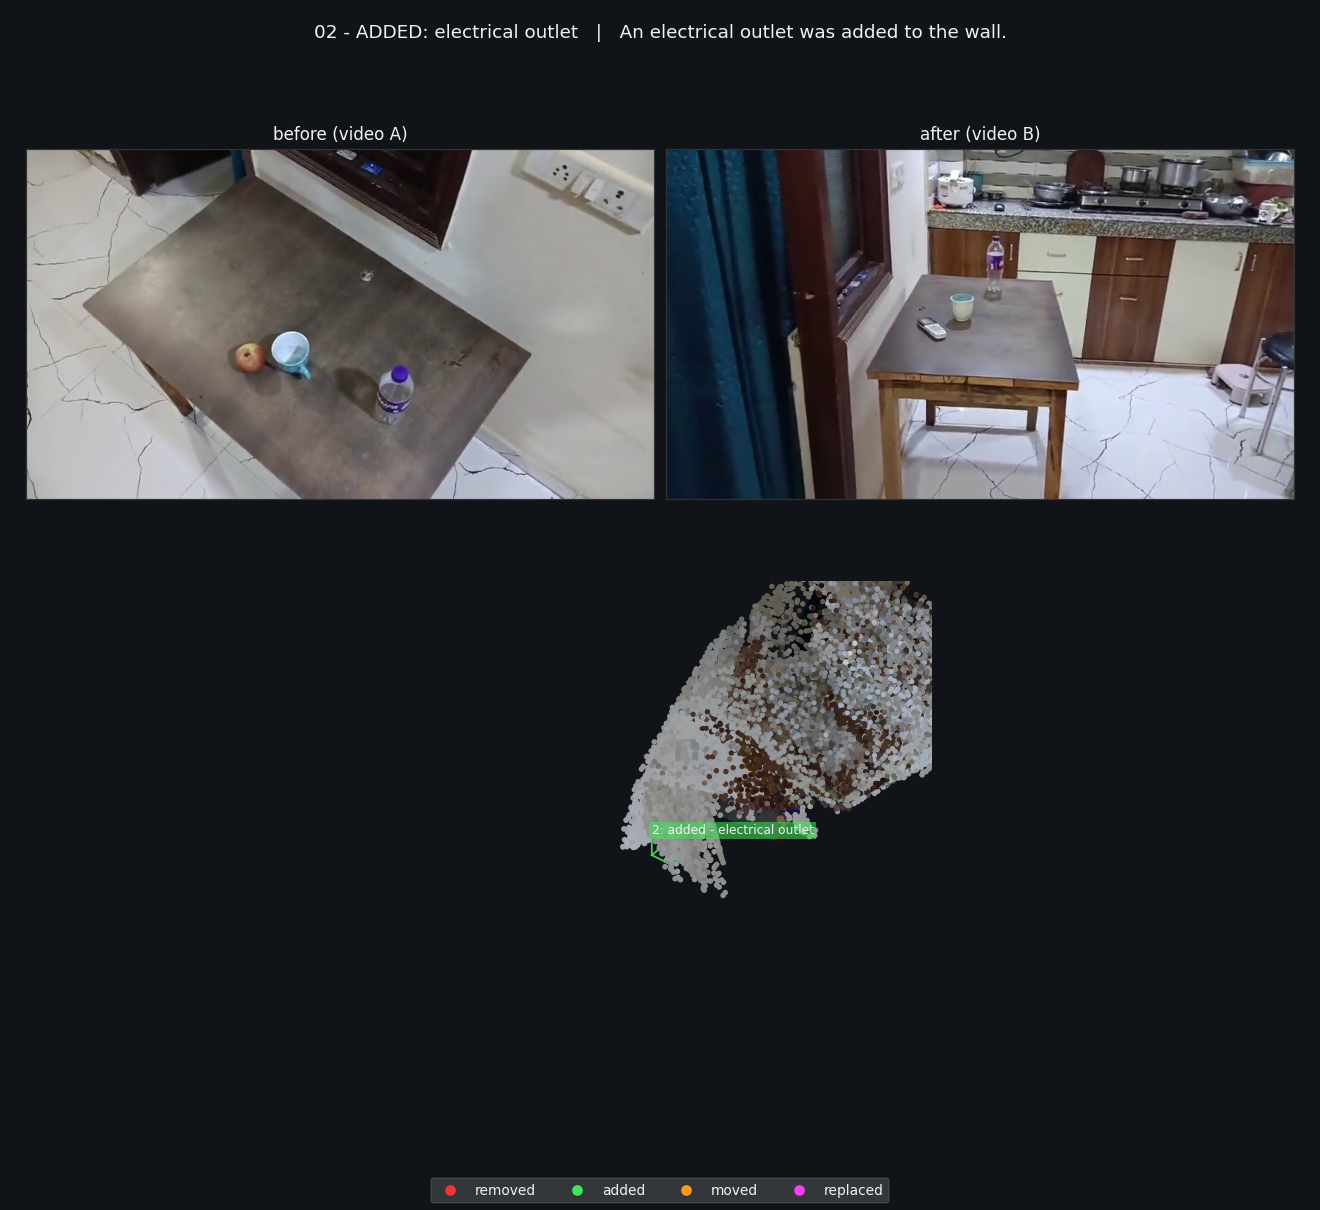
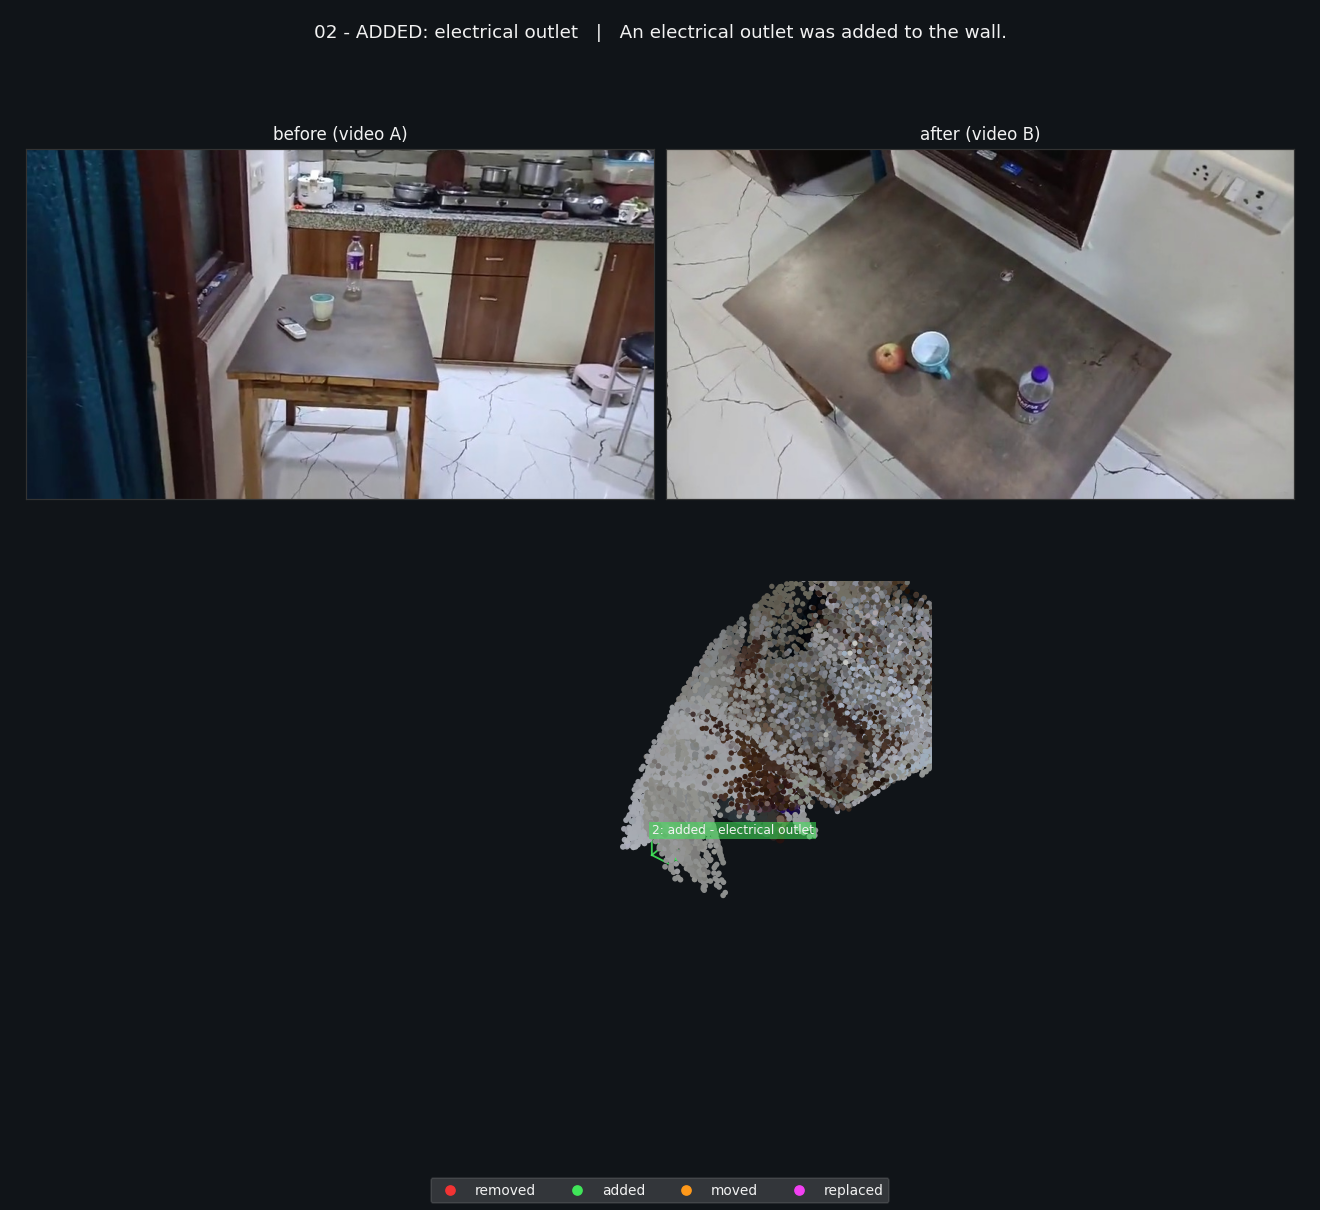
heldout scene6: finalize Step 2 result; fix added-composite before/after swap
Step 2: docs/heldout.md gains the per-change table, the user's overlay
review, the pre-registered scoring (found 1/3, labels 1/1, missed 2,
extras 1), the verbatim summary, the measured runtime and the failure
analysis (cup move: move-matcher found no pair, its two VLM-confirmed
arrivals were dropped by the structural post-filter; apple add: candidate
28 was denied by the VLM). docs/results.md gains a held-out section split
from the tuned development scenes.

Visualization fix (post-hoc, viz only, no detection change): crops.json
stores `frame` for the change's own video, so src/visualize.py's hard-coded
before=frame/after=frame_other swapped the panels for `added` changes
(tag b). Now selected by tag. Re-rendered outputs/scene6 changes/GIF/checking
sheet from the cached results - report.json and all detection numbers are
unchanged. scripts/repro_scenes.sh added (reproducibility harness).

Changed region(s): [[0.0, 0.1223, 0.9939, 0.4281]]

diff --git a/src/visualize.py b/src/visualize.py
@@ -54,6 +54,17 @@ BG_COLOR = "#101418"
 LABEL_COLOR = "#f2f2f2"
 
 
+def ab_evidence(ci: dict):
+    """(before_file, after_file) for a crop entry: video A is "before", video B
+    is "after". crops.json stores `frame` for the change's *own* video (its
+    `tag`) and `frame_other` for the opposite one, so an `added` change (tag b)
+    carries `frame` in B - selecting by tag keeps before/after unswapped."""
+    f, fo = ci.get("frame"), ci.get("frame_other")
+    if ci.get("tag") == "b" or (f is not None and str(f).startswith("b/")):
+        return fo, f
+    return f, fo
+
+
 def write_ply(path: Path, points: np.ndarray, colors: np.ndarray) -> None:
     """Minimal binary little-endian PLY writer (points + uchar rgb)."""
     arr = np.empty(len(points), dtype=[("x", "<f4"), ("y", "<f4"), ("z", "<f4"),
@@ -382,8 +393,9 @@ def main() -> int:
     for c in change_pts:
         ch = c["change"]
         ci = crops.get(str(ch["cluster_ids"][0]), {})
-        before = load_evidence_frame(cfg, ci.get("frame"))
-        after = load_evidence_frame(cfg, ci.get("frame_other"))
+        before_file, after_file = ab_evidence(ci)
+        before = load_evidence_frame(cfg, before_file)
+        after = load_evidence_frame(cfg, after_file)
         # two rows: [before | after] on top (larger), a large 3D panel below
         fig = plt.figure(figsize=(12, 11), dpi=110, facecolor=BG_COLOR)
         gs = fig.add_gridspec(2, 2, height_ratios=[1.25, 1.5],
@@ -460,7 +472,7 @@ def main() -> int:
     headline = next((c for c in change_pts if c["verified"]),
                     change_pts[0] if change_pts else None)
     ci = crops.get(str(headline["change"]["cluster_ids"][0]), {}) if headline else {}
-    before_file, after_file = ci.get("frame"), ci.get("frame_other")
+    before_file, after_file = ab_evidence(ci)
 
     def _abs(file):
         return str(repo_path(cfg["paths"]["cache_dir"]) / "frames" / file) if file else None

diff --git a/docs/heldout.md b/docs/heldout.md
@@ -310,7 +310,9 @@ labelling). Extra entries (confirmed changes not in the ground truth) and
 fragments are counted separately. Unverified candidates are listed but not
 counted as changes.
 
-**Status: pending the single held-out run and the user's overlay confirmation.**
+**Status: CONFIRMED by the user** (overlay review of
+`outputs/scene6/checking_sheet.png`; tile 1's 3D box position was **not**
+verified by the user).
 
 ## Result (scene6, run once — the single held-out execution)
 
@@ -320,5 +322,99 @@ Command (exactly once, frozen code, default settings, no overrides):
 python detect.py --a data/scene6/a.mp4 --b data/scene6/b.mp4 --name scene6
 ```
 
-*(per-change table, printed summary, runtime and failure analysis are filled in
-after the user's overlay confirmation.)*
+### Per-change table
+
+| GT change | detected type | detected label | type correct? | label correct? | confidence |
+|---|---|---|---|---|---|
+| cup **moved** | *(no `moved` entry; `move matches: 0`)* | — | **no — missed** | — | — |
+| remote **removed** | `removed` | "remote control" | **yes** | **yes** | 0.50 |
+| apple **added** | *(no `added` entry for the apple)* | — | **no — missed** | — | — |
+
+Overlay review (user, authoritative):
+
+- **tile 1** (`removed` "remote control"): the before/after frames confirm the
+  remote is on the table in A and absent in B — type and label correct.
+  **3D box position not verified by the user.**
+- **tile 2** (`added` "electrical outlet"): **FALSE POSITIVE** — the outlet is
+  on the wall in both videos.
+
+### Scoring (pre-registered rule)
+
+| | result |
+|---|---|
+| ground-truth changes found | **1/3** (the remote's removal) |
+| labels correct | **1/1** (of the found changes) |
+| missed | **2** (cup move, apple add) |
+| extras | **1** (electrical outlet) |
+| fragments | 0 |
+
+### Confirmed entries and extras
+
+| # | type | label | confidence | assessment |
+|---|---|---|---|---|
+| 1 | removed | remote control | 0.50 | **ground truth found** |
+| 2 | added | electrical outlet | 0.33 | **extra / false positive** |
+
+No `moved` and no `replaced` entries. Unverified candidates kept: **0**.
+
+### Printed natural-language summary (verbatim)
+
+```
+Compared a.mp4 and b.mp4. I found 2 change(s):
+1. Removed - remote control: The remote control was removed from the table.
+2. Added - electrical outlet: Possibly an electrical outlet was added to the wall.
+
+Notes: Object names come from a vision-language model and can be wrong. Detection thresholds were tuned on the development scenes (demo, scene2, scene3, scene4). No absolute distances are reported (the reconstruction scale is not metric-validated); directions refer to the before/after videos as stated.
+Files: viewer.html, change.gif, report.json
+```
+
+(The Qwen3-VL phrasing call failed with CUDA OOM after `describe` had loaded the
+32B model, so the sentences are `src/summary.py`'s deterministic templates;
+`summary.json` records the sentence source.)
+
+### Runtime (measured)
+
+| measure | value |
+|---|---|
+| queue wait (qtime -> stime) | **0 s** (15:28:25 -> 15:28:26) |
+| job runtime (`resources_used.walltime`) | **18:53** |
+| stages (job log) | extract 0:05 · reconstruct 0:52 · align 0:42 · diff 0:25 · **describe 15:53** (35 VLM verifications) · report 0:00 · visualize 0:21 · summary 0:25 |
+| auto diff-mode | **geometric** (dominant plane 6% of confident points, < 50%) |
+
+### Failure analysis (written after the run)
+
+1. **Cup move missed — the move matcher found no pair.** `cache/scene6/semantics/matches.json`
+   is empty (`move matches: 0 (0 arrivals)`). The cup's *arrival* was seen: two
+   `added` candidates were VLM-confirmed (`16` "white cup", `21` "bottle and
+   cup"), but the **structural post-filter dropped both** ("inside an object
+   present in both videos", 78% / 100% of their points), so no arrival survived
+   to pair with a departure. **Likely** contributor: the auto mode chose
+   `geometric` (plane coverage 6%), whose coverage-difference artifacts produce
+   exactly these fragments — 28 of the 32 rejects are VLM-denied fragments
+   ("table leg", "wooden edge", …). Not proven.
+2. **Apple add missed — a candidate existed, the VLM denied it.** Candidate `28`
+   ("blue cup and red apple") was built; the VLM compared "plastic bottle with
+   purple cap" vs "plastic bottle with purple cap, blue cup, red apple" and
+   overrode it to `changed=False` (a VLM false negative). Candidate `19`
+   ("plastic bottle") was likewise VLM-denied. So the apple was dropped at the
+   **VLM confirmation stage**, not at coverage/filters.
+3. **The one extra (electrical outlet)** is a wall feature present in both
+   videos; the VLM confirmed candidate `20` ("electrical outlet") as an
+   addition. It is a false positive under the user's overlay review.
+4. **`describe` dominated the runtime** (15:53 of 18:53) — 35 Qwen3-VL-32B
+   verifications, each a full VLM call.
+
+**No tuning, no re-run and no prompt/threshold change was made for scene6.** The
+only post-run change is a **visualization bug fix** (below), which does not
+touch detection.
+
+### POST-HOC: visualization bug fix (not part of the held-out detection result)
+
+The user observed that tile 2's "before" crop showed video-B content. Root
+cause: `crops.json` stores `frame` for the change's *own* video (its `tag`) and
+`frame_other` for the opposite one, but `src/visualize.py` hard-coded
+`before=frame, after=frame_other` — for an `added` change (`tag: b`) that swaps
+the panels. Fixed in `src/visualize.py` (select before/after by tag) —
+**visualization only; detection untouched**. `outputs/scene6/changes/*.png` and
+the checking sheet were re-rendered from the cached results; `report.json` and
+every detection number are unchanged.

diff --git a/docs/results.md b/docs/results.md
@@ -245,6 +245,29 @@ visibility clusters), i.e. run-to-run variability, not a code change. The
 re-run's version names the ground-truth object correctly, so it is arguably
 better - but it is not the committed state.
 
+### Held-out scenes (never used for tuning)
+
+Split out from the development scenes above: each was run **exactly once** with
+the frozen detection code and default settings, and scored with a
+pre-registered rule ([`heldout.md`](heldout.md)). Neither was used to tune any
+threshold or prompt.
+
+| Scene | Ground truth | Detected (types) | Labels correct | Missed | Extras |
+|---|---|---|---|---|---|
+| scene5 | clock moved, chair removed | **1/2 — type only** (chair `removed`, fragmented into 3) | 0/2 | 1 (clock move) | ≥2 |
+| scene6 | cup moved, remote removed, apple added | **1/3** (remote `removed`) | 1/1 | 2 (cup move, apple add) | 1 (electrical outlet, false positive) |
+
+scene6 (job 10864, 2026-10-11): auto mode `geometric` (dominant plane 6%),
+job runtime 18:53 (describe 15:53 of it). The cup move was missed
+(`move matches: 0`; its two VLM-confirmed arrival candidates were dropped by the
+structural post-filter) and the apple add was denied by the VLM. Full table,
+overlay review and failure analysis:
+[`heldout.md`](heldout.md).
+
+**Honest reading:** the held-out scenes are much weaker than the tuned
+development scenes (scene5 1/2 type-only, scene6 1/3). The development numbers
+are *fit*, not a benchmark - the gap is the point.
+
 ### scene2 — why the mode matters
 
 The two recordings differ strongly in lighting/angle, and video B covers part
